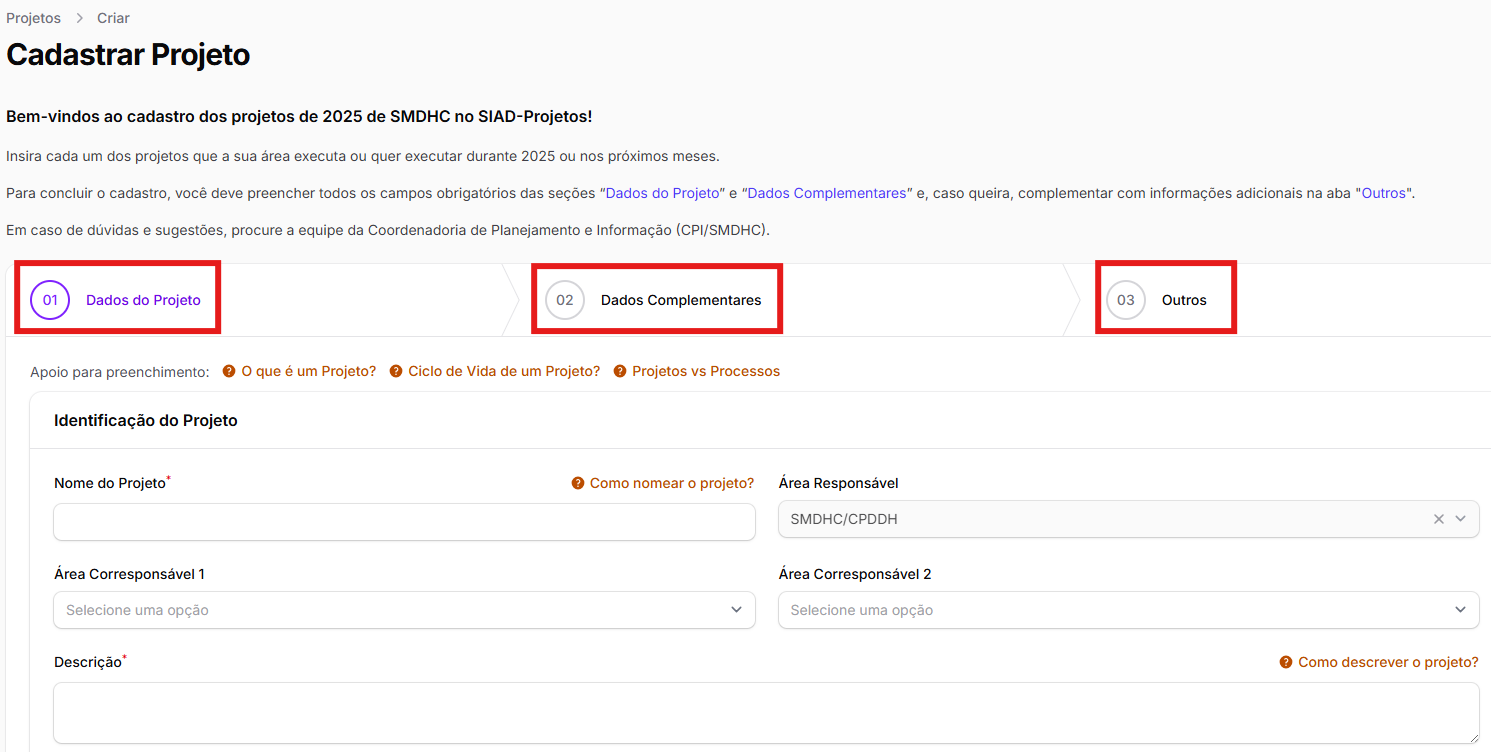
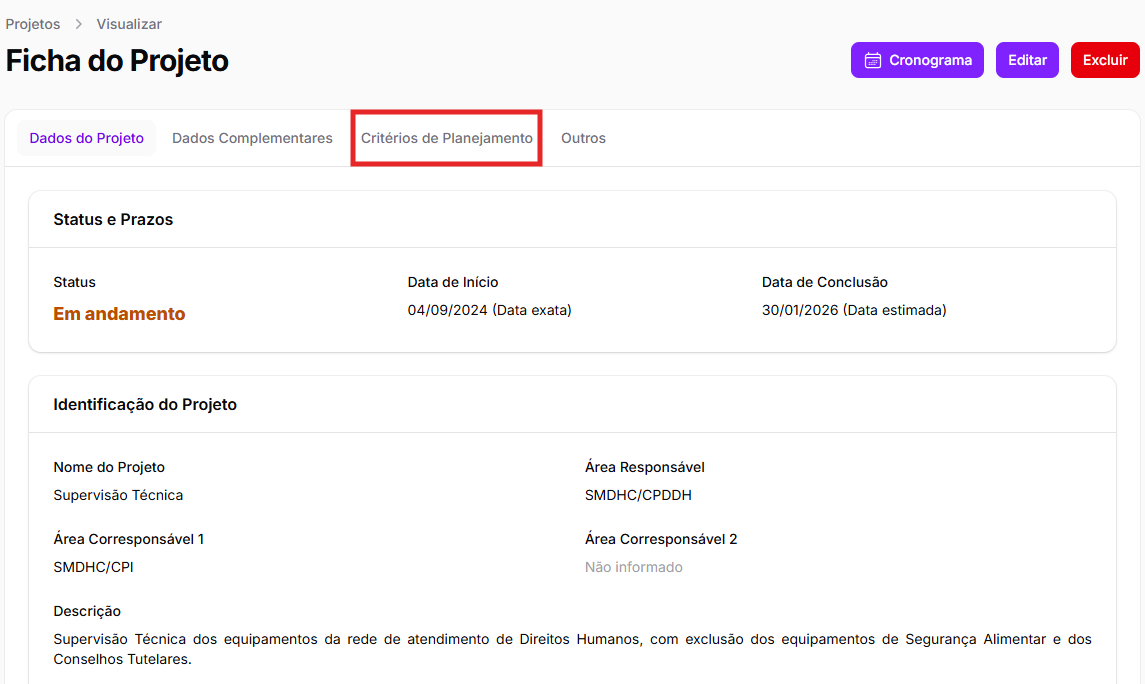
GITBOOK-292: No subject

diff --git a/planejamento/siad-projetos/priorizacao.md b/planejamento/siad-projetos/priorizacao.md
@@ -1,34 +1,36 @@
 # Priorização
 
-Além da gestão de projetos, o módulo planejamento visa facilitar o processo de priorização das entregas de SMDHC. Nessa seção, serão explicadas as funcionalidades desenvolvidas para esse processo.&#x20;
+Além da gestão de projetos, o módulo planejamento visa facilitar o processo de priorização dos projetos das áreas da SMDHC. Nessa seção, serão explicadas as funcionalidades desenvolvidas para esse processo.&#x20;
 
-Vale destacar que esse processo será realizado entre CPI e CPDDH junto com o Gabinete da secretaria. &#x20;
+Vale destacar que esse processo será realizado entre **CPI** e **CPDDH** junto com o **Gabinete** da secretaria. &#x20;
 
-## Critérios de priorização
+## Critérios de Planejamento
 
-Com a inclusão do projeto pelas áreas, usuários com perfil de admin, isto é, os usuários de CPI e CPDDH, complementarão o cadastro indicando se incidem sobre o projeto os compromissos decorrentes dos instrumentos de planejamento da secretaria e da prefeitura. Essas informações aparecerão para as áreas como uma aba na ficha chamada _<mark style="color:purple;">Critérios de Priorização</mark>_.
+Com a inclusão do projeto pelas áreas, CPI complementará o cadastro indicando se incidem sobre o projeto os compromissos decorrentes dos instrumentos de planejamento da Secretaria e da Prefeitura. Essas informações, uma vez preenchidas por CPI, aparecerão para as áreas como uma aba na ficha, chamada _<mark style="color:$info;">Critérios de Planejamento</mark>_.
 
-<mark style="color:yellow;">Imagem da página</mark>
+<figure><img src="../../.gitbook/assets/xx13.png" alt=""><figcaption></figcaption></figure>
+
+Além dos instrumentos verificados na aba de Critérios de Planejamento, há outro instrumento de planejamento considerado para a priorização de projetos, que é o **Planejamento Estratégico da SMDHC**. Essa informação consta na aba de _<mark style="color:$info;">Dados do Projeto</mark>_.&#x20;
 
 {% hint style="success" %}
-Os instrumentos de planejamento verificados são:&#x20;
+Assim, os instrumentos de planejamento verificados são:&#x20;
 
 1. Programa de Metas;&#x20;
-2. Agenda 2030;&#x20;
-3. Plano Plurianual;&#x20;
-4. Orçamento Cidadão;&#x20;
-5. Bonificação por resultados;&#x20;
-6. Metas de avaliação de desempenho;&#x20;
-7. Planejamento estratégico de SMDHC;
-8. Plano Municipal 2030.&#x20;
+2. Bonificação por Resultados;&#x20;
+3. Metas de Avaliação de Desempenho;&#x20;
+4. Plano Plurianual;&#x20;
+5. Orçamento Cidadão;&#x20;
+6. Plano de Ação Agenda 2030;&#x20;
+7. Outros Planos Municipais;
+8. Planejamento Estratégico da SMDHC.&#x20;
 {% endhint %}
 
-Os _<mark style="color:purple;">Dados Complementares</mark>_ e os _<mark style="color:purple;">Critérios de Priorização</mark>_ auxiliarão o Gabinete na decisão de quais serão os projetos prioritários para 2025. <mark style="background-color:yellow;">Ao ser priorizado, será obrigatória a elaboração do seu cronograma e passará a ser acompanhado pela equipe de monitoramento da secretaria, composta por membros de CPI e CPDDH.</mark> &#x20;
+Os _<mark style="color:purple;">Dados Complementares</mark>_ e os _<mark style="color:purple;">Critérios de Priorização</mark>_ auxiliarão o Gabinete na decisão de quais serão os projetos prioritários.
 
 {% hint style="danger" %}
-Ao priorizar um projeto, o Gabinete poderá levar em consideração outros critérios para além dos que foram registrados pela área. O que for preenchido não vincula automaticamente a decisão de priorização.  &#x20;
+Ao priorizar um projeto, o Gabinete poderá levar em consideração outros critérios para além dos que foram registrados pela área e por CPI. O que for preenchido não vincula automaticamente a decisão de priorização.  &#x20;
 {% endhint %}
 
-Para saber os projetos prioritários de sua área, verifique o projeto na coluna _<mark style="color:purple;">Prioritário?</mark>_, da tela inicial dos projetos.&#x20;
+Para saber os projetos prioritários de sua área, verifique o projeto na coluna <mark style="color:$info;">**Prioritário?**</mark>, na tela inicial dos projetos.&#x20;
 
-<mark style="color:yellow;">Imagem da página</mark>
+<figure><img src="../../.gitbook/assets/xx12 (2).png" alt=""><figcaption></figcaption></figure>

diff --git a/SUMMARY.md b/SUMMARY.md
@@ -75,13 +75,13 @@
   * [Edição e exclusão](planejamento/siad-projetos/edicao-e-exclusao/README.md)
     * [Edição de projetos cadastrados](planejamento/siad-projetos/edicao-e-exclusao/edicao-de-projetos-cadastrados.md)
     * [Exclusão de projetos cadastrados](planejamento/siad-projetos/edicao-e-exclusao/exclusao-de-projetos-cadastrados.md)
-    * [Edição de etapas cadastradas no cronograma](planejamento/siad-projetos/edicao-e-exclusao/edicao-de-etapas-cadastradas-no-cronograma.md)
-    * [Exclusão de etapas cadastradas no cronograma](planejamento/siad-projetos/edicao-e-exclusao/exclusao-de-etapas-cadastradas-no-cronograma.md)
   * [Priorização](planejamento/siad-projetos/priorizacao.md)
   * [Cronograma](planejamento/siad-projetos/cronograma/README.md)
     * [Inclusão de etapas](planejamento/siad-projetos/cronograma/inclusao-de-etapas.md)
     * [Atribuição e atualização de status](planejamento/siad-projetos/cronograma/atribuicao-e-atualizacao-de-status.md)
     * [Alteração de ordem das etapas](planejamento/siad-projetos/cronograma/alteracao-de-ordem-das-etapas.md)
+    * [Edição de etapas](planejamento/siad-projetos/cronograma/edicao-de-etapas.md)
+    * [Exclusão de etapas](planejamento/siad-projetos/cronograma/exclusao-de-etapas.md)
   * [Anexos](planejamento/siad-projetos/anexos.md)
 
 ## Cidade Solidária

diff --git a/planejamento/siad-projetos/edicao-e-exclusao/exclusao-de-projetos-cadastrados.md b/planejamento/siad-projetos/edicao-e-exclusao/exclusao-de-projetos-cadastrados.md
@@ -24,6 +24,6 @@ Caso tenha excluído um projeto e precise recuperá-lo, basta clicar no botão "
 
 <figure><img src="../../../.gitbook/assets/xx8.png" alt=""><figcaption></figcaption></figure>
 
-Ao localizar o projeto excluído que deseja recuperar, basta clicar nos 3 pontos no canto direito da linha da tabela inicial de projetos e clicar em "<mark style="color:$info;">Restaurar</mark>".&#x20;
+Ao localizar o projeto excluído que deseja recuperar, basta clicar nos 3 pontos no canto direito da linha da tabela inicial de projetos e clicar em "_<mark style="color:$info;">⮌</mark>_ _<mark style="color:$info;">Restaurar</mark>_".&#x20;
 
 <figure><img src="../../../.gitbook/assets/xx9.png" alt=""><figcaption></figcaption></figure>

diff --git a/planejamento/siad-projetos/cadastro-de-projetos/README.md b/planejamento/siad-projetos/cadastro-de-projetos/README.md
@@ -18,7 +18,7 @@ Ao clicar no botão, você será redirecionado para a tela **“Cadastrar Projet
 * Dados Complementares; e
 * Outros&#x20;
 
-<figure><img src="../../../.gitbook/assets/xx10.png" alt=""><figcaption></figcaption></figure>
+<figure><img src="../../../.gitbook/assets/xx10 (1).png" alt=""><figcaption></figcaption></figure>
 
 É importante destacar que as abas devem ser preenchidas nessa ordem, só podendo passar para a próxima depois de preencher completar todos os seus campos obrigatórios. Contudo, é possível retornar a uma das abas preenchidas para editá-la. &#x20;
 

diff --git a/planejamento/siad-projetos/cronograma/exclusao-de-etapas.md b/planejamento/siad-projetos/cronograma/exclusao-de-etapas.md
@@ -1,0 +1,2 @@
+# Exclusão de etapas
+

diff --git a/planejamento/siad-projetos/cronograma/edicao-de-etapas.md b/planejamento/siad-projetos/cronograma/edicao-de-etapas.md
@@ -1,0 +1,2 @@
+# Edição de etapas
+
